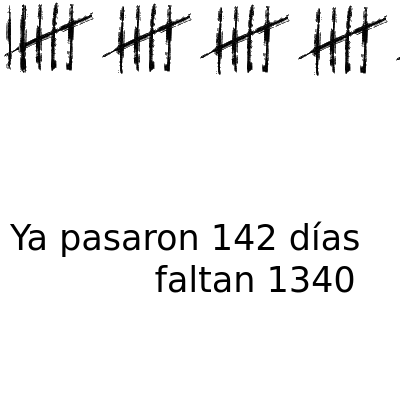
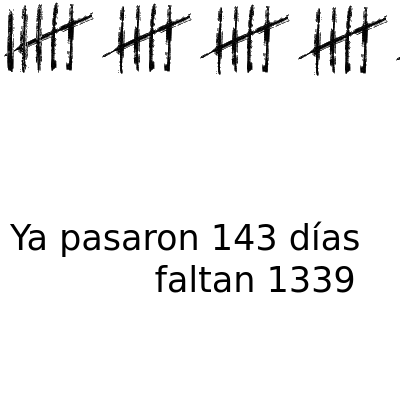
deploy: 28882f26f23b9f53dac6c4991168e610486d0e44

Changed region(s): [[0.0, 0.0, 0.12, 0.18], [0.78, 0.66, 0.9, 0.75], [0.63, 0.57, 0.69, 0.63]]

diff --git a/index.html b/index.html
@@ -3,19 +3,19 @@
   <head>
     <meta charset='utf-8'>
     <meta http-equiv='X-UA-Compatible' content='IE=edge'>
-    <title>Ya pasaron 142 días y faltan 1340</title>
-    <meta name="description" content="Ya pasaron 142 días y faltan 1340">
-    <meta itemprop="name" content="Ya pasaron 142 días y faltan 1340">
-    <meta itemprop="description" content="Ya pasaron 142 días y faltan 1340">
+    <title>Ya pasaron 143 días y faltan 1339</title>
+    <meta name="description" content="Ya pasaron 143 días y faltan 1339">
+    <meta itemprop="name" content="Ya pasaron 143 días y faltan 1339">
+    <meta itemprop="description" content="Ya pasaron 143 días y faltan 1339">
     <meta name="twitter:card" content="summary">
-    <meta name="twitter:title" content="Ya pasaron 142 días y faltan 1340">
-    <meta name="twitter:description" content="Ya pasaron 142 días y faltan 1340">
+    <meta name="twitter:title" content="Ya pasaron 143 días y faltan 1339">
+    <meta name="twitter:description" content="Ya pasaron 143 días y faltan 1339">
     <meta name="twitter:creator" content="@FloriusWasTaken">
     <meta name="twitter:image" content="https://pasaron.meme.ar/capture.png">
-    <meta property="og:title" content="Ya pasaron 142 días y faltan 1340">
-    <meta property="og:description" content="Ya pasaron 142 días y faltan 1340">
+    <meta property="og:title" content="Ya pasaron 143 días y faltan 1339">
+    <meta property="og:description" content="Ya pasaron 143 días y faltan 1339">
     <meta property="og:url" content="https://pasaron.meme.ar">
-    <meta property="og:site_name" content="Ya pasaron 142 días y faltan 1340">
+    <meta property="og:site_name" content="Ya pasaron 143 días y faltan 1339">
     <meta property="og:type" content="website">
     <meta property="og:image" content="https://pasaron.meme.ar/capture.png">
     <meta name="theme-color" content="#dc143c">
@@ -69,18 +69,18 @@
         padding: 0;
       }
     </style>
-    <title>Ya pasaron 142 días y faltan 1340</title>
+    <title>Ya pasaron 143 días y faltan 1339</title>
   </head>
   <body>
     <div id="main">
       <img src="img/5.png"/><img src="img/5.png"/><img src="img/5.png"/><img src="img/5.png"/><img src="img/5.png"/><img src="img/5.png"/><img src="img/5.png"/><img src="img/5.png"/><img src="img/5.png"/><img src="img/5.png"/><img src="img/5.png"/><img src="img/5.png"/><img src="img/5.png"/><img src="img/5.png"/><img src="img/5.png"/><img src="img/5.png"/><img src="img/5.png"/><img src="img/5.png"/><img src="img/5.png"/><img src="img/5.png"/><img src="img/5.png"/><img src="img/5.png"/><img src="img/5.png"/><img src="img/5.png"/><img src="img/5.png"/><img src="img/5.png"/><img src="img/5.png"/><img src="img/5.png"/>
       
-        <img src="img/2.png"/>
+        <img src="img/3.png"/>
       
     </div>
     <footer id="footer">
       <marquee id="marquee" class="is-vertical-align">
-        Ya pasaron 142 días y faltan 1340
+        Ya pasaron 143 días y faltan 1339
       </marquee>
       <ul>
         <li>
